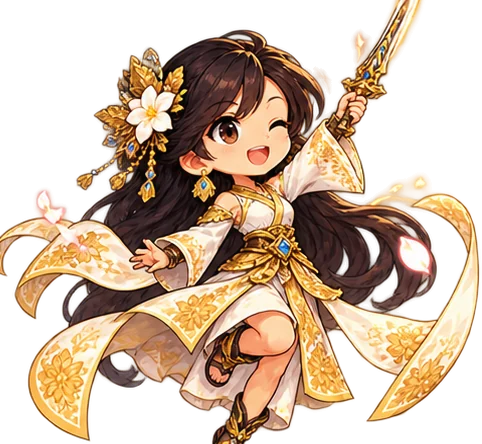
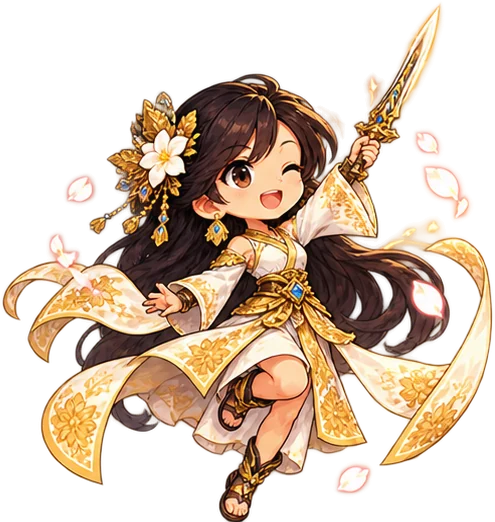
fix(hikayat): wira penuh hingga kaki, teks lebih perlahan dan lembut
Pose wira (diam, sedia, serang, sihir, cedera, menang) kini dipotong terus
daripada lembaran pose asal Batch 04: pose yang diekstrak dalam pek itu
memotong kaki, paling ketara pada pose serang selepas jawapan pertama.
Label nama di bawah setiap pose dibuang, pose yang bersentuhan dipisahkan,
dan keenam-enam pose berkongsi satu tinggi dengan kaki di garis tanah,
jadi skala wira kekal sama. Kotak wira di pentas dibesarkan mengikut.

Setiap sepanduk teks kini kekal lebih lama dan pudar keluar dengan lembut;
teks kad cerita, kad elemen, papan nama boss dan kapsyen muncul satu demi
satu; dan setiap kad pudar ke langkah seterusnya. Langkah automatik
menunggu cukup lama untuk dibaca.

diff --git a/live/web/src/lib/games/legenda/LegendaPlayer.svelte b/live/web/src/lib/games/legenda/LegendaPlayer.svelte
@@ -13,6 +13,7 @@
 -->
 <script lang="ts">
 	import { onMount, tick } from 'svelte';
+	import { fade } from 'svelte/transition';
 	import type { RoomClient } from '$lib/room.svelte';
 	import type { Me, Person } from '$lib/types';
 	import { confetti } from '$lib/confetti';
@@ -156,43 +157,43 @@
 			stage?.reset();
 			sfx('unlock', 0.5);
 			void playWipe();
-			if (worldIndex > 0) void show('dunia_seterusnya', 1800);
-			later(4600);
-		} else if (step === 'travel') later(2800);
+			if (worldIndex > 0) void show('dunia_seterusnya', 2600);
+			later(6200);
+		} else if (step === 'travel') later(3400);
 		else if (step === 'encounter') {
 			void stage?.enter();
-			void show('pertarungan_bermula', 1500);
-			later(1700);
+			void show('pertarungan_bermula', 2200);
+			later(2600);
 		} else if (step === 'clear') {
 			sfx('correct', 0.5);
-			later(1800);
+			later(2400);
 		} else if (step === 'unlock') {
 			sfx('unlock');
-			void show('elemen_dibuka', 1800);
-			later(4200);
+			void show('elemen_dibuka', 2600);
+			later(5800);
 		} else if (step === 'reveal') {
 			stage?.reset();
-			void show('boss_muncul', 1700);
-			later(4000);
+			void show('boss_muncul', 2400);
+			later(5600);
 		} else if (step === 'worldclear') {
 			stage?.celebrate();
 			sfx('unlock');
 			confetti({ count: 90 });
-			void show('boss_dikalahkan', 1800);
-			later(6500);
+			void show('boss_dikalahkan', 2600);
+			later(7600);
 		} else if (step === 'fallen') {
 			stage?.fall();
-			void show('cuba_lagi', 1500);
+			void show('cuba_lagi', 2200);
 		} else if (step === 'victory') {
 			stage?.celebrate();
 			confetti({ count: 160, spread: 1.3 });
-			void show('kemenangan', 2600);
+			void show('kemenangan', 3400);
 		} else if (step === 'question') {
 			stage?.reset();
 			// The first boss question of a world: remind the child to choose an element.
 			if (boss && story.elements && !picked.has(worldIndex)) {
 				picked.add(worldIndex);
-				void show('pilih_elemen', 1300);
+				void show('pilih_elemen', 2000);
 			}
 		}
 	});
@@ -206,19 +207,19 @@
 		const run = async () => {
 			if (result.correct) {
 				sfx(boss ? 'hit' : 'correct');
-				void show('jawapan_betul', 1000);
+				void show('jawapan_betul', 1600);
 				await stage?.attack(boss ? (reward.element as Element) : null, { weak: reward.weak, finishing: reward.bossHp === 0, healed: reward.change > 0 });
 				if (reward.change > 0) sfx('heal', 0.4);
 			} else {
 				sfx('wrong');
-				await show('jawapan_salah', 950);
-				void show(boss ? 'boss_akan_menyerang' : 'serangan_balas', 1100);
+				await show('jawapan_salah', 1400);
+				void show(boss ? 'boss_akan_menyerang' : 'serangan_balas', 1500);
 				await stage?.counter();
-				void show('nyawa_berkurang', 900);
+				void show('nyawa_berkurang', 1400);
 			}
 			doneFor = mine;
 			// A right answer moves on by itself; a wrong one stays, with the right answer shown, until the child taps on.
-			if (result.correct) later(1300);
+			if (result.correct) later(1900);
 			else later(12000);
 		};
 		void run();
@@ -357,7 +358,7 @@
 			/>
 
 			{#if step === 'intro'}
-				<div class="overlay title-card" role="status">
+				<div class="overlay title-card" role="status" out:fade={{ duration: still ? 0 : 320 }}>
 					<img class="emblem" src={symbol(worldIndex)} alt="" />
 					<p class="kicker">Dunia {worldIndex + 1} / {total}</p>
 					<h2>{scene.title}</h2>
@@ -365,13 +366,13 @@
 					<button type="button" class="skip" onclick={next}>Teruskan <Icon name="next" size={18} /></button>
 				</div>
 			{:else if step === 'travel'}
-				<div class="overlay caption" role="status">
+				<div class="overlay caption" role="status" out:fade={{ duration: still ? 0 : 320 }}>
 					<p>{heroInfo.name} meneruskan perjalanan… <span>Musuh {foeIndex} / {encounters}</span></p>
 				</div>
 			{:else if step === 'clear'}
-				<div class="overlay banner good" role="status"><p>Musuh tewas! {story.cleared} / {encounters}</p></div>
+				<div class="overlay banner good" role="status" out:fade={{ duration: still ? 0 : 320 }}><p>Musuh tewas! {story.cleared} / {encounters}</p></div>
 			{:else if step === 'unlock'}
-				<div class="overlay unlock" role="status">
+				<div class="overlay unlock" role="status" out:fade={{ duration: still ? 0 : 320 }}>
 					<p class="kicker">Lima musuh ditewaskan</p>
 					<h2>Senjata elemen terbuka!</h2>
 					<ul class="orbs">
@@ -383,7 +384,7 @@
 					<button type="button" class="skip" onclick={next}>Teruskan <Icon name="next" size={18} /></button>
 				</div>
 			{:else if step === 'gather'}
-				<div class="overlay unlock" role="status">
+				<div class="overlay unlock" role="status" out:fade={{ duration: still ? 0 : 320 }}>
 					<p class="kicker">Pintu boss</p>
 					<h2>Menunggu kawan</h2>
 					<p class="story-line">
@@ -394,7 +395,7 @@
 				</div>
 			{:else if step === 'reveal'}
 				<!-- the hero on the left faces the boss on the right, which turns to look back at the hero -->
-				<div class="overlay boss-reveal" role="status" style:--aura={WORLD_ART[worldIndex].aura}>
+				<div class="overlay boss-reveal" role="status" style:--aura={WORLD_ART[worldIndex].aura} out:fade={{ duration: still ? 0 : 320 }}>
 					<img class="reveal-bg" src={battleBg(worldIndex)} alt="" />
 					<span class="reveal-aura"></span>
 					<img class="reveal-hero" src={heroWeaponArt(hero, (story.element ?? 'api') as Element)} alt="" />
@@ -419,11 +420,11 @@
 					</div>
 				</div>
 			{:else if step === 'wait'}
-				<div class="overlay caption" role="status">
+				<div class="overlay caption" role="status" out:fade={{ duration: still ? 0 : 320 }}>
 					<p>Seranganmu sudah dihantar! Menunggu kawan menjawab… <span>{answered} / {fighting}</span></p>
 				</div>
 			{:else if step === 'fallen'}
-				<div class="overlay unlock fallen" role="alert">
+				<div class="overlay unlock fallen" role="alert" out:fade={{ duration: still ? 0 : 320 }}>
 					<h2>{heroInfo.name} tumbang!</h2>
 					<p class="story-line">
 						Jangan risau. Kamu sambung di sini dengan enam hati penuh{boss ? ', dan kerosakan pada boss kekal.' : '.'}
@@ -431,7 +432,7 @@
 					<button type="button" class="btn btn--sun btn--big" onclick={() => client.send({ t: 'retry', ev: story.ev })}>Cuba lagi</button>
 				</div>
 			{:else if step === 'worldclear'}
-				<div class="overlay title-card clear" role="status">
+				<div class="overlay title-card clear" role="status" out:fade={{ duration: still ? 0 : 320 }}>
 					<img class="emblem" src={symbol(worldIndex)} alt="" />
 					<p class="kicker">Dunia dibebaskan</p>
 					<h2>{scene.title}</h2>
@@ -439,7 +440,7 @@
 					<button type="button" class="btn btn--sun btn--big" onclick={next}>{worldIndex + 1 < total ? 'Dunia seterusnya' : 'Penamat'} <Icon name="next" /></button>
 				</div>
 			{:else if step === 'victory'}
-				<div class="overlay title-card victory" role="status">
+				<div class="overlay title-card victory" role="status" out:fade={{ duration: still ? 0 : 320 }}>
 					<img class="victor" src={heroArt(hero, 'victory')} alt="" />
 					<p class="kicker">Tamat · Lima dunia legenda</p>
 					<h2>Wira Legenda!</h2>
@@ -842,6 +843,41 @@
 		font-size: clamp(0.8rem, 2.1cqw, 1.25rem);
 		line-height: 1.35;
 		text-shadow: 0 2px 6px rgb(0 0 0 / 0.8);
+	}
+	/* The words of a story card come in one after another, slowly enough to be read and enjoyed. */
+	.title-card > :not(img),
+	.unlock > :not(.orbs),
+	.nameplate > *,
+	.caption p {
+		animation: words-in 700ms cubic-bezier(0.2, 0.8, 0.2, 1) both;
+		animation-delay: calc(250ms + var(--n, 0) * 280ms);
+	}
+	.overlay > :nth-child(2),
+	.nameplate > :nth-child(2) {
+		--n: 1;
+	}
+	.overlay > :nth-child(3),
+	.nameplate > :nth-child(3) {
+		--n: 2;
+	}
+	.overlay > :nth-child(4),
+	.nameplate > :nth-child(4) {
+		--n: 3;
+	}
+	.overlay > :nth-child(5) {
+		--n: 4;
+	}
+	.overlay > :nth-child(6) {
+		--n: 5;
+	}
+	.nameplate > * {
+		animation-delay: calc(900ms + var(--n, 0) * 280ms);
+	}
+	@keyframes words-in {
+		from {
+			opacity: 0;
+			transform: translateY(0.9rem);
+		}
 	}
 	.title-card {
 		background: radial-gradient(ellipse at 50% 55%, rgb(8 16 36 / 0.72), rgb(8 16 36 / 0.25) 70%);

diff --git a/live/web/src/lib/games/legenda/Banner.svelte b/live/web/src/lib/games/legenda/Banner.svelte
@@ -1,7 +1,8 @@
 <!--
 	A transition text banner ("Jawapan Betul!", "Boss Akan Menyerang!"...): the supplied vector-authored
 	art, over the scene and never in the way (no pointer events). Six of them are 12-frame animations,
-	played over the time the banner stays; the rest are one picture that drops in. With reduced motion
+	played over the time the banner stays; the rest are one picture that drops in. Each fades out over its
+	last moments, so one banner gives way smoothly to the next. With reduced motion
 	every banner is a still picture. The words are also in the page for screen readers, since the picture
 	cannot be read aloud.
 -->
@@ -30,7 +31,7 @@
 </script>
 
 {#if banner}
-	<div class="banner" role="status" aria-live="assertive">
+	<div class="banner" role="status" aria-live="assertive" style:--ms="{ms}ms">
 		{#if banner.animated && !still}
 			<div
 				class="sheet"
@@ -55,7 +56,10 @@
 		transform: translateX(-50%);
 		pointer-events: none;
 		filter: drop-shadow(0 0.6rem 1rem rgb(0 0 0 / 0.45));
-		animation: drop-in 380ms cubic-bezier(0.2, 0.9, 0.3, 1.15) both;
+		/* in with a small bounce, held long enough to enjoy, then gently out before it is removed */
+		animation:
+			drop-in 480ms cubic-bezier(0.2, 0.9, 0.3, 1.15) both,
+			fade-out 420ms ease-in calc(var(--ms) - 420ms) forwards;
 	}
 	.sheet,
 	.still {
@@ -71,6 +75,12 @@
 		from {
 			opacity: 0;
 			transform: translateX(-50%) translateY(-1.2rem) scale(0.94);
+		}
+	}
+	@keyframes fade-out {
+		to {
+			opacity: 0;
+			transform: translateX(-50%) translateY(-0.6rem) scale(0.98);
 		}
 	}
 	@media (prefers-reduced-motion: reduce) {

diff --git a/live/web/src/lib/games/legenda/Stage.svelte b/live/web/src/lib/games/legenda/Stage.svelte
@@ -81,9 +81,12 @@
 
 	const art = $derived(WORLD_ART[world]);
 	const lay = $derived(field(world));
-	// The hero's height on the scene, and the effects' centres, as fractions of the scene.
-	const HERO_H = 0.23;
-	const heroAt = $derived({ x: lay.hero.x, y: lay.hero.y - HERO_H * 0.55 });
+	// The hero's figure height on the scene, and the effects' centres, as fractions of the scene. The pose
+	// pictures carry room above the figure for the tallest pose (all six share one scale and ground), so
+	// the picture's box is that much taller than the figure.
+	const FIGURE_H = 0.23;
+	const HERO_H = FIGURE_H * 1.17;
+	const heroAt = $derived({ x: lay.hero.x, y: lay.hero.y - FIGURE_H * 0.55 });
 	const minion = $derived(foe && foe.index % 2 === 0 ? lay.minB : lay.minA);
 	const target = $derived(boss ? lay.boss : minion);
 	const enemyAt = $derived({ x: target.x + target.w / 2, y: target.y + target.h * (boss ? 0.42 : 0.5) });
@@ -523,7 +526,7 @@
 	}
 	/* The weapon sprites are taller and carry the blade's flames, so they are drawn larger, standing on the same ground. */
 	.hero img.armed {
-		height: 128%;
+		height: 109%;
 		flex: none;
 	}
 	.hero img {

diff --git a/live/web/scripts/story_assets.py b/live/web/scripts/story_assets.py
@@ -125,13 +125,64 @@ def rel(path: Path) -> str:
 # ------------------------------------------------------------------ heroes and Naga Chini
 
 
+POSE_SHEETS = SRC / "Batch04/DIDIK_JRPG_Assets_Batch04_HD_Animation/01_ORIGINAL_HD_POSE_SHEETS"
+POSES = ("idle", "ready", "attack", "cast", "hurt", "victory")
+
+
+def pose_sheet(sheet: Path) -> dict[str, Image.Image]:
+    """The six poses of a hero's sheet (three by two, each over a name plate), whole from head to feet.
+    The pack's own extracted poses cut the feet off, so the poses are cut from the sheet: the navy
+    name plates are blanked out, touching poses are parted at the emptiest column between them, and
+    each pose keeps its figure and the sparks and petals around it. Every pose has the same height
+    with its feet on the bottom edge, so all six share one scale and one ground."""
+    rgba = np.array(Image.open(sheet).convert("RGBA"))
+    h, w = rgba.shape[:2]
+    alpha = rgba[..., 3].copy()
+    r, g, b = (rgba[..., i].astype(int) for i in range(3))
+    navy = (b > r + 18) & (np.maximum(np.maximum(r, g), b) < 120) & (alpha > 200)
+    band = np.zeros_like(navy)
+    for y0, y1 in ((465, 545), (990, 1070)):
+        band[y0:y1] = True
+    labels, _ = ndimage.label(navy & band)
+    for ys, xs in ndimage.find_objects(labels):
+        if xs.stop - xs.start > 120 and ys.stop - ys.start > 25:
+            alpha[max(0, ys.start - 7):ys.stop + 7, max(0, xs.start - 26):xs.stop + 26] = 0
+    solid = alpha > 20
+    for y0, y1 in ((0, h // 2), (h // 2, h)):
+        for x0, x1 in ((w // 3 - 50, w // 3 + 50), (2 * w // 3 - 50, 2 * w // 3 + 50)):
+            solid[y0:y1, x0 + int(np.argmin(solid[y0:y1, x0:x1].sum(axis=0)))] = False
+    labels, count = ndimage.label(solid)
+    centres = ndimage.center_of_mass(solid, labels, range(1, count + 1))
+    sizes = ndimage.sum(solid, labels, range(1, count + 1))
+    masks = {}
+    for i, pose in enumerate(POSES):
+        cx0, cx1, cy0, cy1 = (i % 3) * w / 3, (i % 3 + 1) * w / 3, (i // 3) * h / 2, (i // 3 + 1) * h / 2
+        ids = [k + 1 for k, (cy, cx) in enumerate(centres) if cx0 <= cx < cx1 and cy0 <= cy < cy1 and sizes[k] > 40]
+        main = max(ids, key=lambda k: sizes[k - 1])
+        near = ndimage.binary_dilation(labels == main, iterations=40)
+        floor = max(300, sizes[main - 1] * 0.004)
+        keep = np.isin(labels, [k for k in ids if k == main or (sizes[k - 1] >= floor and (near & (labels == k)).any())])
+        masks[pose] = ndimage.binary_dilation(keep, iterations=2) & (alpha > 0)
+    boxes = {p: (np.nonzero(m.any(1))[0], np.nonzero(m.any(0))[0]) for p, m in masks.items()}
+    tall = max(ys[-1] - ys[0] + 1 for ys, _ in boxes.values())
+    out = {}
+    for pose, m in masks.items():
+        ys, xs = boxes[pose]
+        piece = rgba.copy()
+        piece[..., 3] = np.where(m, alpha, 0)
+        crop = piece[ys[0]:ys[-1] + 1, xs[0]:xs[-1] + 1]
+        canvas = np.zeros((tall, crop.shape[1], 4), np.uint8)
+        canvas[tall - crop.shape[0]:] = crop
+        out[pose] = Image.fromarray(canvas, "RGBA")
+    return out
+
+
 def heroes() -> None:
-    for hero, folder, portrait in (("tuah", "HANG_TUAH", "01_hang_tuah"), ("mahsuri", "MAHSURI", "02_mahsuri")):
-        for pose in ("idle", "ready", "attack", "cast", "hurt", "victory"):
-            src = B04 / folder / f"{folder.lower()}_{pose}.png"
-            out = save_webp(tidy_alpha(Image.open(src)), OUT / "heroes" / hero / f"{pose}.webp")
-            note(out, rel(src), "production pose still (Batch 04), stray edges removed", f"battle pose: {pose}",
-                 anchor="bottom-center")
+    for hero, sheet, portrait in (("tuah", "Hang_Tuah_Six_Poses.png", "01_hang_tuah"), ("mahsuri", "Mahsuri_Six_Poses.png", "02_mahsuri")):
+        for pose, im in pose_sheet(POSE_SHEETS / sheet).items():
+            out = save_webp(im, OUT / "heroes" / hero / f"{pose}.webp")
+            note(out, rel(POSE_SHEETS / sheet), "production pose sheet (Batch 04), cut whole with the name plates removed",
+                 f"battle pose: {pose}", anchor="bottom-center")
         src = next((B03 / "02_HERO_CHARACTERS").glob(f"{portrait}_battle_pose_transparent_*.png"))
         im = tidy_alpha(Image.open(src))
         im.thumbnail((600, 800), Image.LANCZOS)
